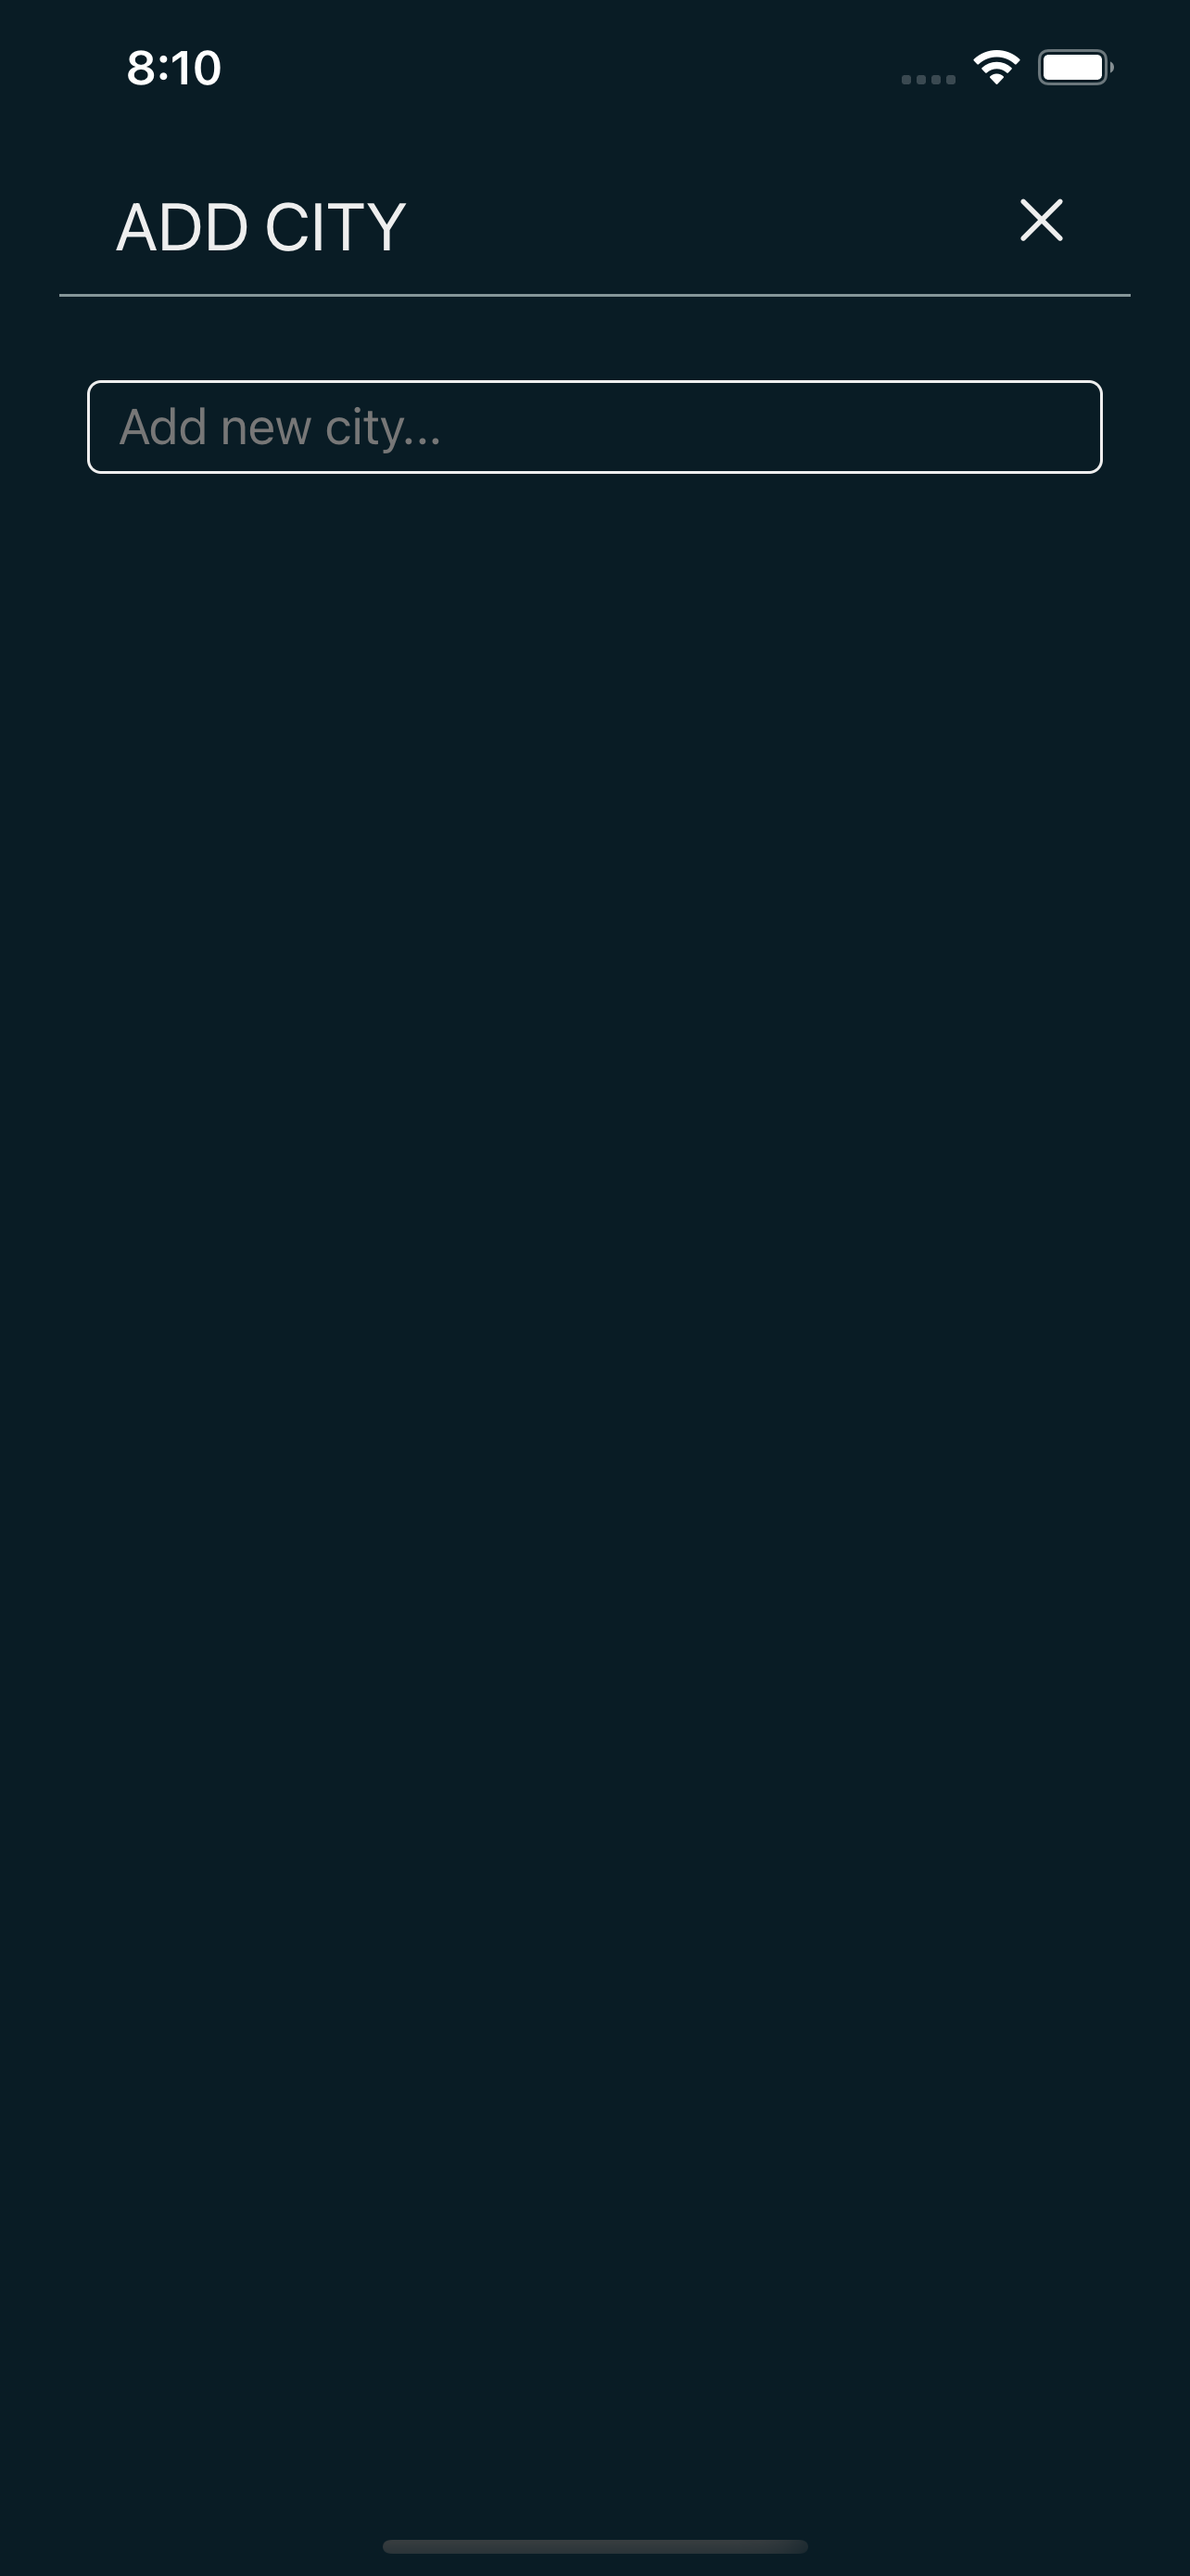
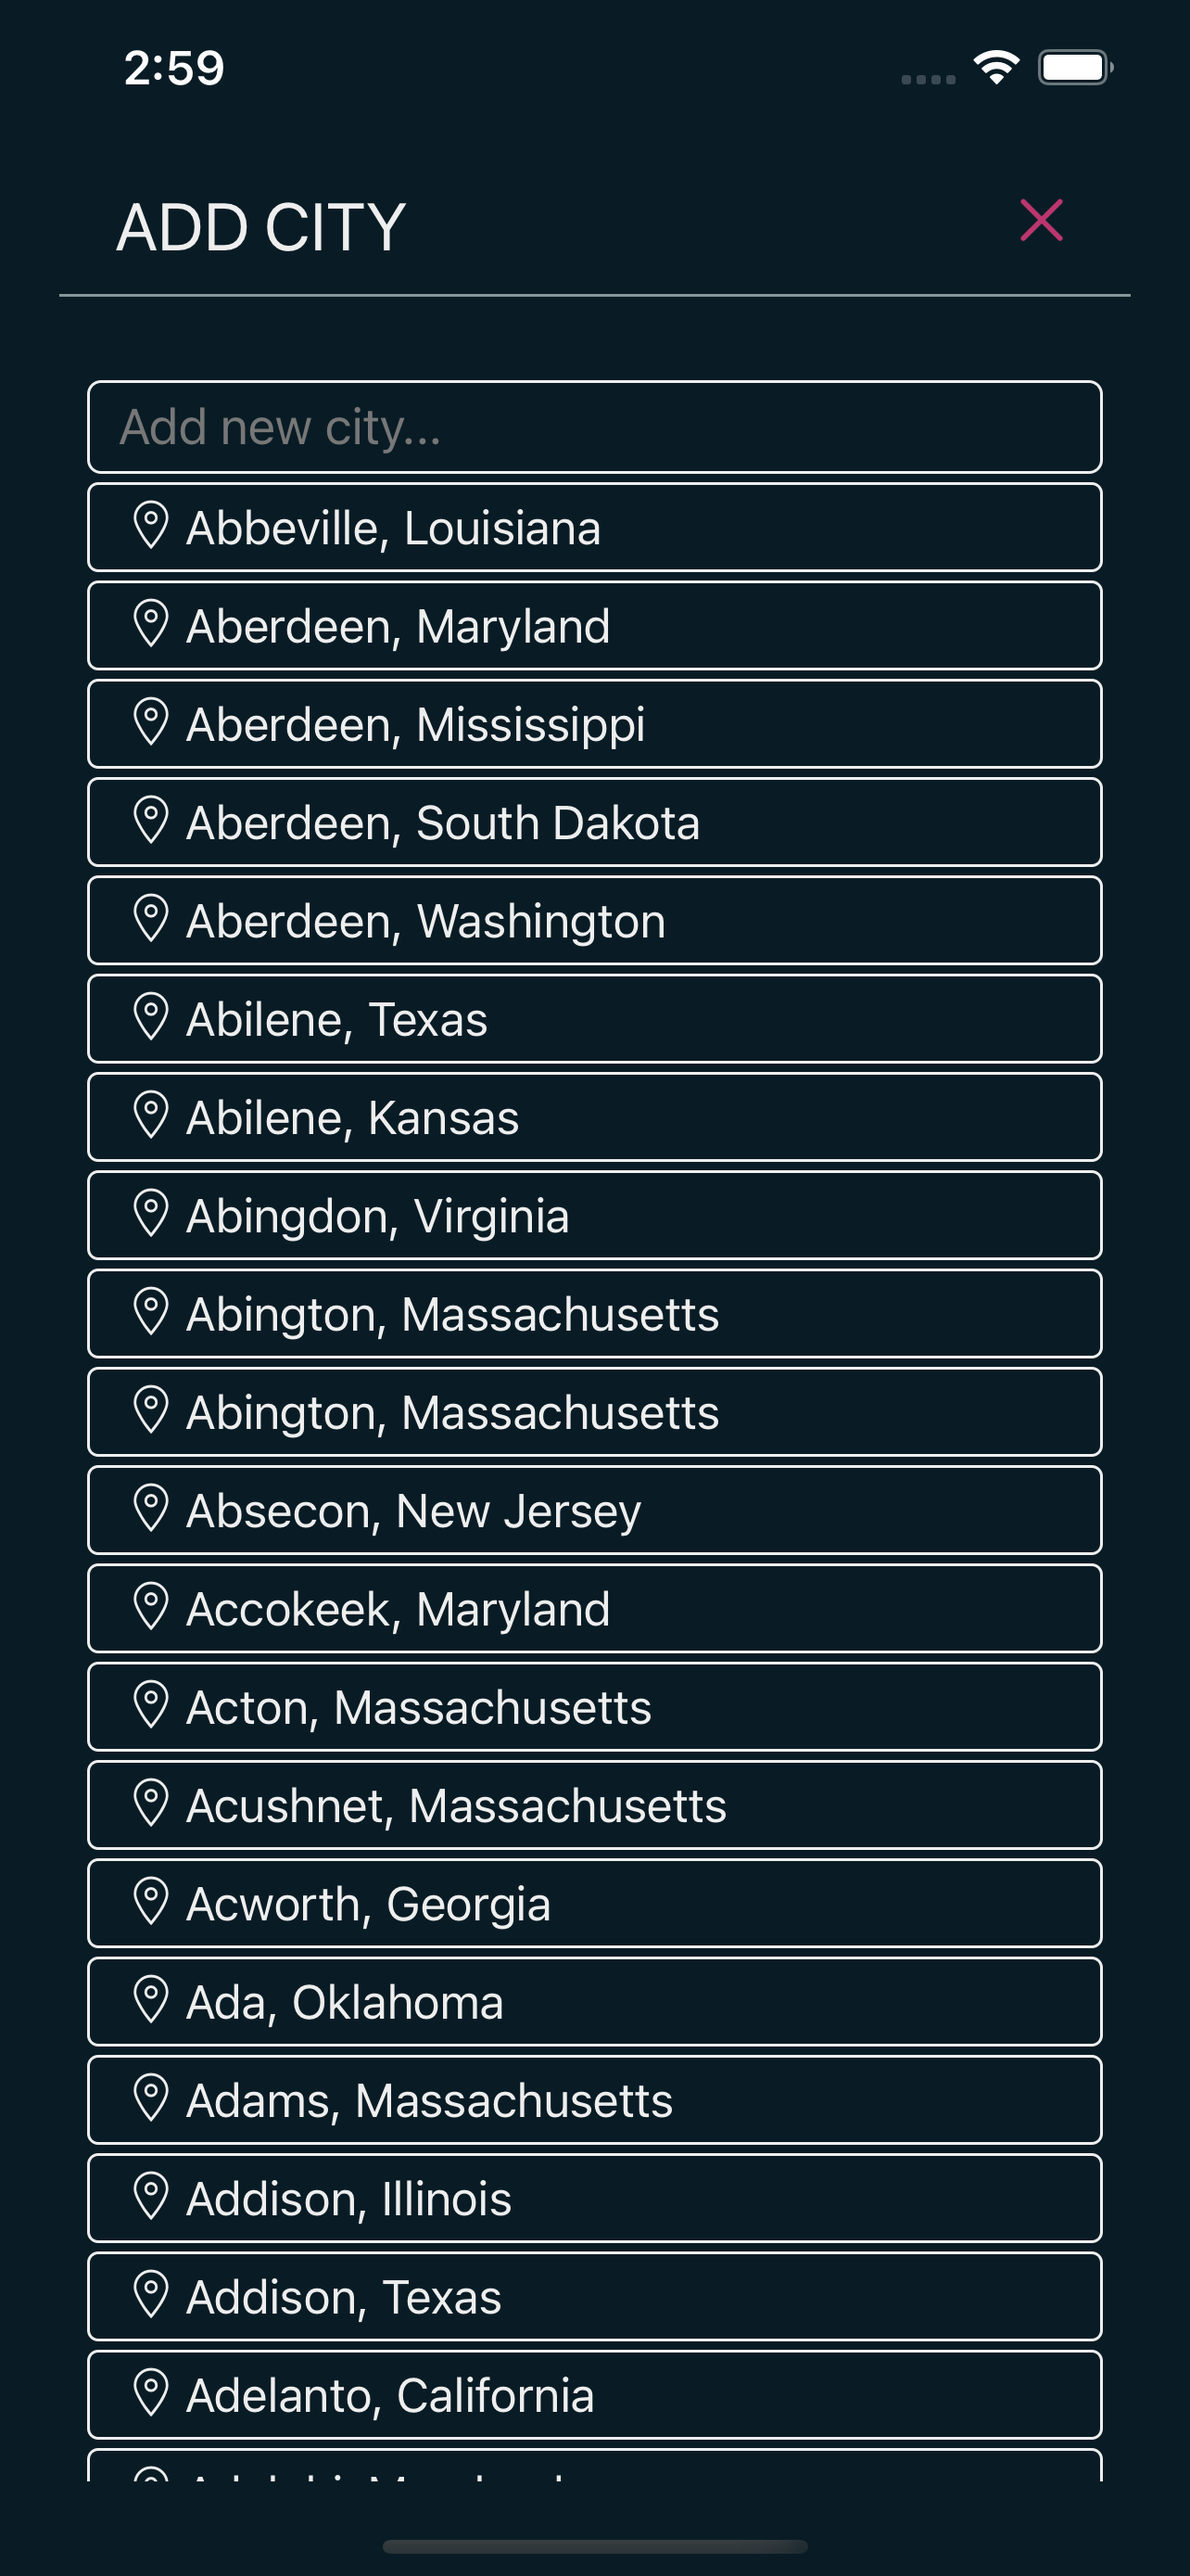
README progress update

diff --git a/README.md b/README.md
@@ -6,8 +6,9 @@
 - The project uses the expo CLI for initial setup and other changes to the application.
 
 - Current Work:
-  - Stack Navigation between the home screen and cite weather screen.
-  - Choosing theme, colors and styles for the UI.
+  - City Weather Screen UI
+  - Setting up data for calling OpenWeather API
+  - Search Update on Add city Modal
 
 ### Current UI progress
 
